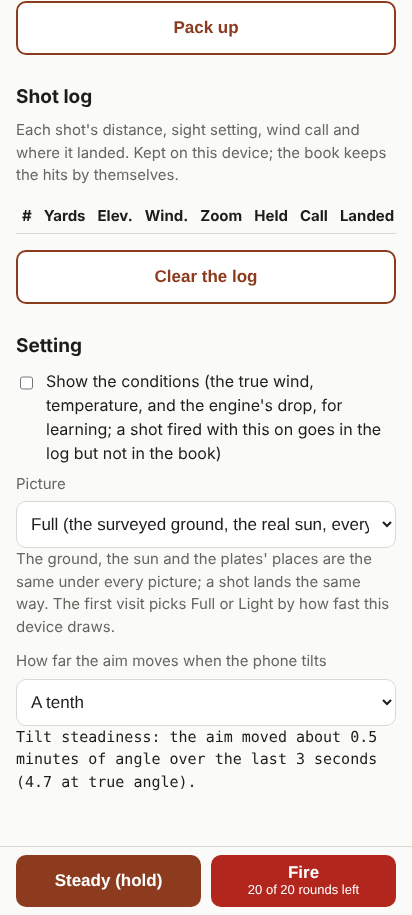
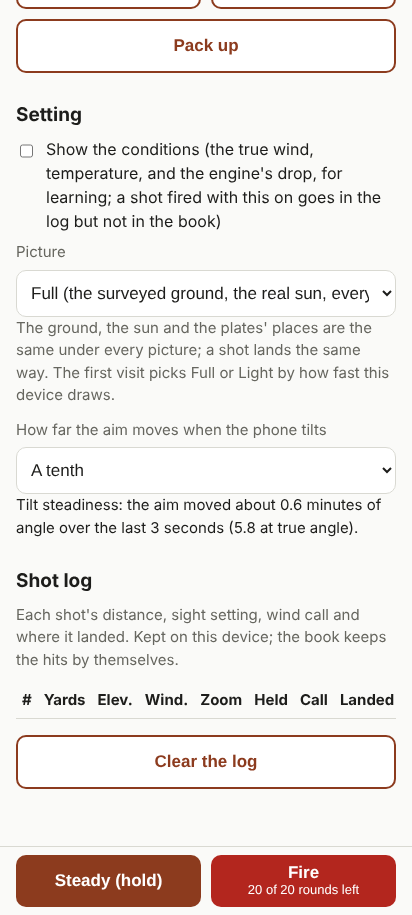
range-day-sixteen notes: the Setting move (#59)
* range-day-sixteen step 1: the tilt reading (public/tilt.js)

Claude-Session: https://claude.ai/code/session_018WqoWHQB8KohwWN1UM3RAZ

* range-day-sixteen steps 2-8: tilt moves the hold; Aim switch and Center; fall back to drag with a line; remembered; gearing and steadiness line; wake lock; each shot says how it was aimed

Claude-Session: https://claude.ai/code/session_018WqoWHQB8KohwWN1UM3RAZ

* range-day-sixteen step 9: tilt tests (maths and the page), screenshot states for tilt mode and the steadiness line, the within-reach measure in both modes

Claude-Session: https://claude.ai/code/session_018WqoWHQB8KohwWN1UM3RAZ

* range-day-sixteen: the firing line's screenshots at 378x762 for the field report (drag, tilt, a shot, Center, no readings)

Claude-Session: https://claude.ai/code/session_018WqoWHQB8KohwWN1UM3RAZ

* range-day-sixteen: the report's measures and pictures move to the notes pull request, so this one holds only the change

Claude-Session: https://claude.ai/code/session_018WqoWHQB8KohwWN1UM3RAZ

* range-day-sixteen step 6: the steadiness line shows the true-angle figure at every gearing, true angle included (result check finding 1)

Claude-Session: https://claude.ai/code/session_018WqoWHQB8KohwWN1UM3RAZ

* Test fix: the scene test's waits for the Tavor's firing line were inside a comment, so it sometimes read the page before it loaded

Seen as "RangeDayLine is not defined" in Checks run 45762397221 (tests, scene-rest).
[…]

diff --git a/docs/reports/range-day-sixteen-report.md b/docs/reports/range-day-sixteen-report.md
@@ -304,3 +304,24 @@ yes, merge and deploy range-day-sixteen, then merge its notes
 - **Dan's correction, recorded:** a line for Dan to type went into a chat reply as inline code, not a fenced block (third
   instance; the report check in `test/report-shape.test.js` reads reports only). Filed for the reply guard on the Wall card
   Shipyard shared notes (event 3086).
+
+## The Setting move (addendum, 27 Nov 2026)
+
+- **On Dan's yes ("yes, build, merge and deploy the Setting move"):** pull request
+  [#58](https://github.com/isleofdan/range-day/pull/58), merged as `591df8c`; Deploy run 28
+  ([45945691797](https://github.com/isleofdan/range-day/actions/runs/45945691797)) green. Setting stands above the shot log;
+  in tilt mode a "Steadiness" reading shows over the bottom edge of the view; the steadiness measure is the largest angle
+  between the last 3 seconds' unsmoothed pointing directions, so it holds at any distance from the centering. Two new tests
+  (the flat-table case; a 300-row log at the three phone sizes) and a screenshot state, `line-long-log` (117 states).
+  Independent result check PASS (job 20261127-051101-1f486d) after three rounds of findings: a bench test fix kept out of
+  scope, the Setting steadiness line added to the long-log test, the two measures compared on the same readings.
+- **The first Checks run caught a real fault:** at 378×762 the reading ran 5 px past the screen's edge in the Checks
+  browser's font; it now wraps inside the view, and the widest reading is tested.
+- **What Dan saw after the deploy** (true angle, minutes of angle over 3 seconds): in the hand **49.5** (56.5 the day
+  before); flat on the table read at once **4085.9**, read again after 10 untouched seconds **5.3**. The first table
+  reading still held the moment the phone was laid down: the window is 3 seconds and the steps said to wait 5, which
+  is too short once reading time is counted. The sensor itself, lying still, moves about 0.09 degree; Dan's hold about
+  0.8 degree.
+- **Found, not fixed here:** `test/bench.test.js` verify 8 failed once on #58's first run: its sign-in helper clears the
+  device before the home page has written the last rifle, so that write can land in the test's "every key held before"
+  snapshot. The one-line wait (`dd5dd68`, local branch `bench-race-fix`) goes in its own pull request.

diff --git a/PLAN.md b/PLAN.md
@@ -792,9 +792,11 @@ Pin Checks to ubuntu-24.04 after verifying the latest successful run used 24.04 
   gamma alone; a phone with no readings, or a refusal, goes back to drag
   with a line saying why; Steady in tilt mode slows the sight, never moves
   where it ends up.
-- **Next session needs:** Dan's yes to move Setting above the shot log, the
-  steadiness line under the view in tilt mode, and a test with a long log;
-  the steadiness line to measure by angle between directions (the flat-table
-  reading ran away, 3328.9). Report: the addendum in
-  `docs/reports/range-day-sixteen-report.md`.
+- **Then (27 Nov):** Setting above the shot log, the steadiness reading over
+  the view in tilt mode, measured as the angle between pointing directions
+  (#58, `591df8c`, Deploy run 28). Dan's readings: hand 49.5, table 5.3
+  (minutes of angle over 3 s, true angle).
+- **Next session needs:** the bench test's one-line wait (local branch
+  `bench-race-fix`, `dd5dd68`) in its own pull request. Report: the
+  addenda in `docs/reports/range-day-sixteen-report.md`.
 
